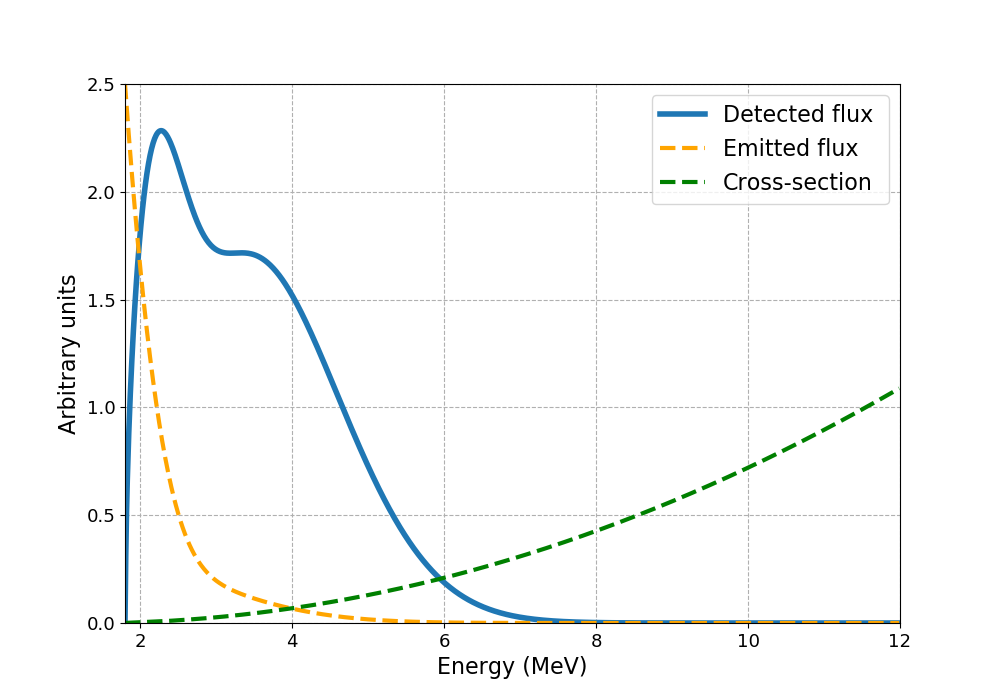
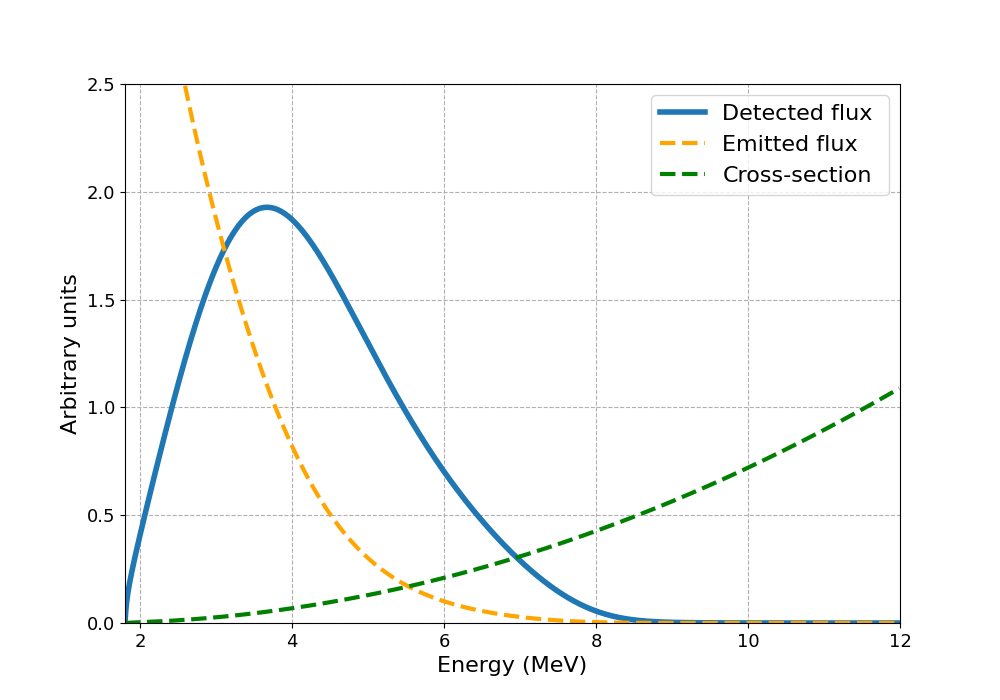
Corrected a bug in Hubber-Muller flux and updated figures.

diff --git a/Python implementation/Plots.py b/Python implementation/Plots.py
@@ -26,7 +26,7 @@ def flux_emitted(enu):
     return flux
 
 datx = np.arange(1.8,12,0.01)
-datflux = [flux_detected(x)*1.e44 for x in datx]
+datflux = [flux_detected(x)*1e43 for x in datx]
 datfluxe = [flux_emitted(x)*3 for x in datx]
 datsig = [DB_test.get_cross_section(x)*1e41 for x in datx]
 
@@ -49,11 +49,15 @@ figflux.savefig("Fluxes and cross-section.png")
 
 x_ax = (DB_test.DataLowerBinEdges+DB_test.DataUpperBinEdges)/2
 ev_simp = [DB_test.calculate_naked_event_expectation_simple(Model_test,'EH1',i) for i in range(0,DB_test.n_bins)]
-ev_inte = [DB_test.calculate_naked_event_expectation_integr(Model_test,'EH1',i) for i in range(0,DB_test.n_bins)]
+#ev_inte = [DB_test.calculate_naked_event_expectation_integr(Model_test,'EH1',i) for i in range(0,DB_test.n_bins)]
+data = np.array([43781,31619,40024,47052,53432,58628,63823,66905,67597,67761,66409,
+                         63852,60164,55403,51728,47916,44952,41353,37622,33677,29657,25660,
+                         21537,18159,15236,12603,9792,7447,5698,4250,3031,2154,1308,862,2873])
 
 figev,axev = plt.subplots(figsize = (10,7))
 axev.scatter(x_ax,ev_simp,marker="+",color = "black", label = "Simple calculus")
-axev.scatter(x_ax,ev_inte,marker="+",color = "red", label = "Integrated calculus")
+#axev.scatter(x_ax,ev_inte,marker="+",color = "red", label = "Integrated calculus")
+axev.scatter(x_ax,data,marker="+",color = "red", label = "Data")
 axev.set_xlabel("Energy (MeV)", fontsize = 16)
 axev.set_ylabel("Total number of events", fontsize = 16)
 axev.tick_params(axis='x', labelsize=13)

diff --git a/Python implementation/prova.py b/Python implementation/prova.py
@@ -5,14 +5,14 @@ import Models
 import numpy as np
 import matplotlib.pyplot as plt
 
-#flux_test = HMF.reactor_isotope_flux('U235',huber_muller)
+flux_test = HMF.reactor_isotope_flux('U235',HMF.huber_muller)
 #print(flux_test.isotope_name)
-#print(flux_test.flux_parameters[flux_test.isotope_name])
+print(flux_test.flux_parameters[flux_test.isotope_name])
 
 #print(HMF.reactor_isotope_flux('U235',huber_muller).isotope_name)
 #print(HMF.reactor_isotope_flux('U238',muller).flux_parameters)
 
-#print(flux_test.GetFlux(0.1))
+print(flux_test.GetFlux(1.))
 
 DB_test = DB.DayaBay()
 #print(DB.DayaBay().num_bins())
@@ -33,14 +33,15 @@ DB_test = DB.DayaBay()
 def get_osc(model):
     return model.oscProbability(10,10)
 
-# Model_test = Models.PlaneWaveSM()
-Model_test = Models.NoOscillations()
+Model_test = Models.PlaneWaveSM()
+#Model_test = Models.WavePacketSterile_full()
 #print(get_osc(Model_test))
-# print(DB_test.calculate_naked_event_expectation_integr(Model_test,'EH1',1))
+#for i in range(0,DB_test.n_bins):
+    #print(DB_test.calculate_naked_event_expectation_integr(Model_test,'EH1',i))
 # print(DB_test.calculate_naked_event_expectation_simple(Model_test,'EH1',1))
 # Petit problema, i = 0 dona ~21000, mentre que i = 1 dona ~17500. Molt menys,
 # és raonable?
 
 # print(DB_test.get_data()[:,:,0])
 # print(DB_test.get_expectation(Model_test))
-print(DB_test.get_chi2(Model_test))
+#print(DB_test.get_chi2(Model_test))

diff --git a/Python implementation/HuberMullerFlux.py b/Python implementation/HuberMullerFlux.py
@@ -1,4 +1,4 @@
-import math
+import numpy as np
 
 #  Prescriptiions for all isotopes but U238 from Huber 1106.0687
 #  The missing isotope (U238) is obtained from Muller et al
@@ -42,8 +42,8 @@ class reactor_isotope_flux:
         according to the formula and parameters in 1106.0687.
         """
         exponent = 0.0
-        for i in range(0,len(self.flux_parameters)):
+        for i in range(0,len(self.flux_parameters[self.isotope_name])):
             exponent += self.flux_parameters[self.isotope_name][i]*Enu**i
         # The physical meaning of this formula is found on (22) from 1106.0687,
         # it's some kind of perturbative development as a function of Enu.
-        return math.exp(exponent)
+        return np.exp(exponent)

diff --git a/Python implementation/InverseBetaDecayCrossSection.py b/Python implementation/InverseBetaDecayCrossSection.py
@@ -4,6 +4,10 @@ NeutrinoEnergyThreshold = 1.806 # MeV
 DeltaNeutronToProtonMass = 1.29322 # MeV from PDG2018 mass differences
 ElectronMass = 0.511 # MeV
 sigma_0 = 0.0952e-42 # cm^2
+# More information on the IBD CrossSection can be found in
+# A Oralbaev et al 2016 J. Phys.: Conf. Ser. 675 012003
+# Using that data, sigma_0 should be 9.3516e-44 #cm^-2 at tree-level.
+# One should check this better, but it should arise no big error.
 
 def ElectronEnergyO0(Enu):
     """

diff --git a/HuberMullerFlux.cpp b/HuberMullerFlux.cpp
@@ -1,4 +1,5 @@
 #include "HuberMullerFlux.h"
+#include <iostream>
 
 namespace reactor_isotope_flux {
 
@@ -34,3 +35,13 @@ double GetFlux(double Enu, const std::vector<double> & flux_parameters){
 }
 
 } // close reactorflux namespace
+
+
+int main(){
+
+  std::cout << reactor_isotope_flux::GetFlux(1,reactor_isotope_flux::huber_muller::flux_parameters["U235"]);
+  std::cout << "\n";
+  std::cout<<"Hola Món\n";
+
+  return 0;
+}

diff --git a/Python implementation/DayaBay.py b/Python implementation/DayaBay.py
@@ -28,7 +28,7 @@ class DayaBay:
         TotalMass = 20.e3 # in kg
 
         # Associated objects of the class
-        self.deltaEfine = 0.05 # in MeV. What is this???
+        self.deltaEfine = 0.05 # in MeV. It is the resolution of the Etrue to Erec matrix
         self.TotalNumberOfProtons = TotalMass*FH*Na*IH1/HidrogenMass
 
         self.sets_names = DBP.exp_names

diff --git a/Python implementation/Models.py b/Python implementation/Models.py
@@ -325,7 +325,7 @@ class WavePacketSterile_full:
         self.sigmax = 2.1e-3*nm
 
     def get_mixing_matrix(self):
-        """ Returns the PMNS matrix"""
+        """ Returns the 4 neutrino mixing matrix. """
         c12 = np.cos(self.theta12)
         c13 = np.cos(self.theta13)
         c23 = np.cos(self.theta23)
